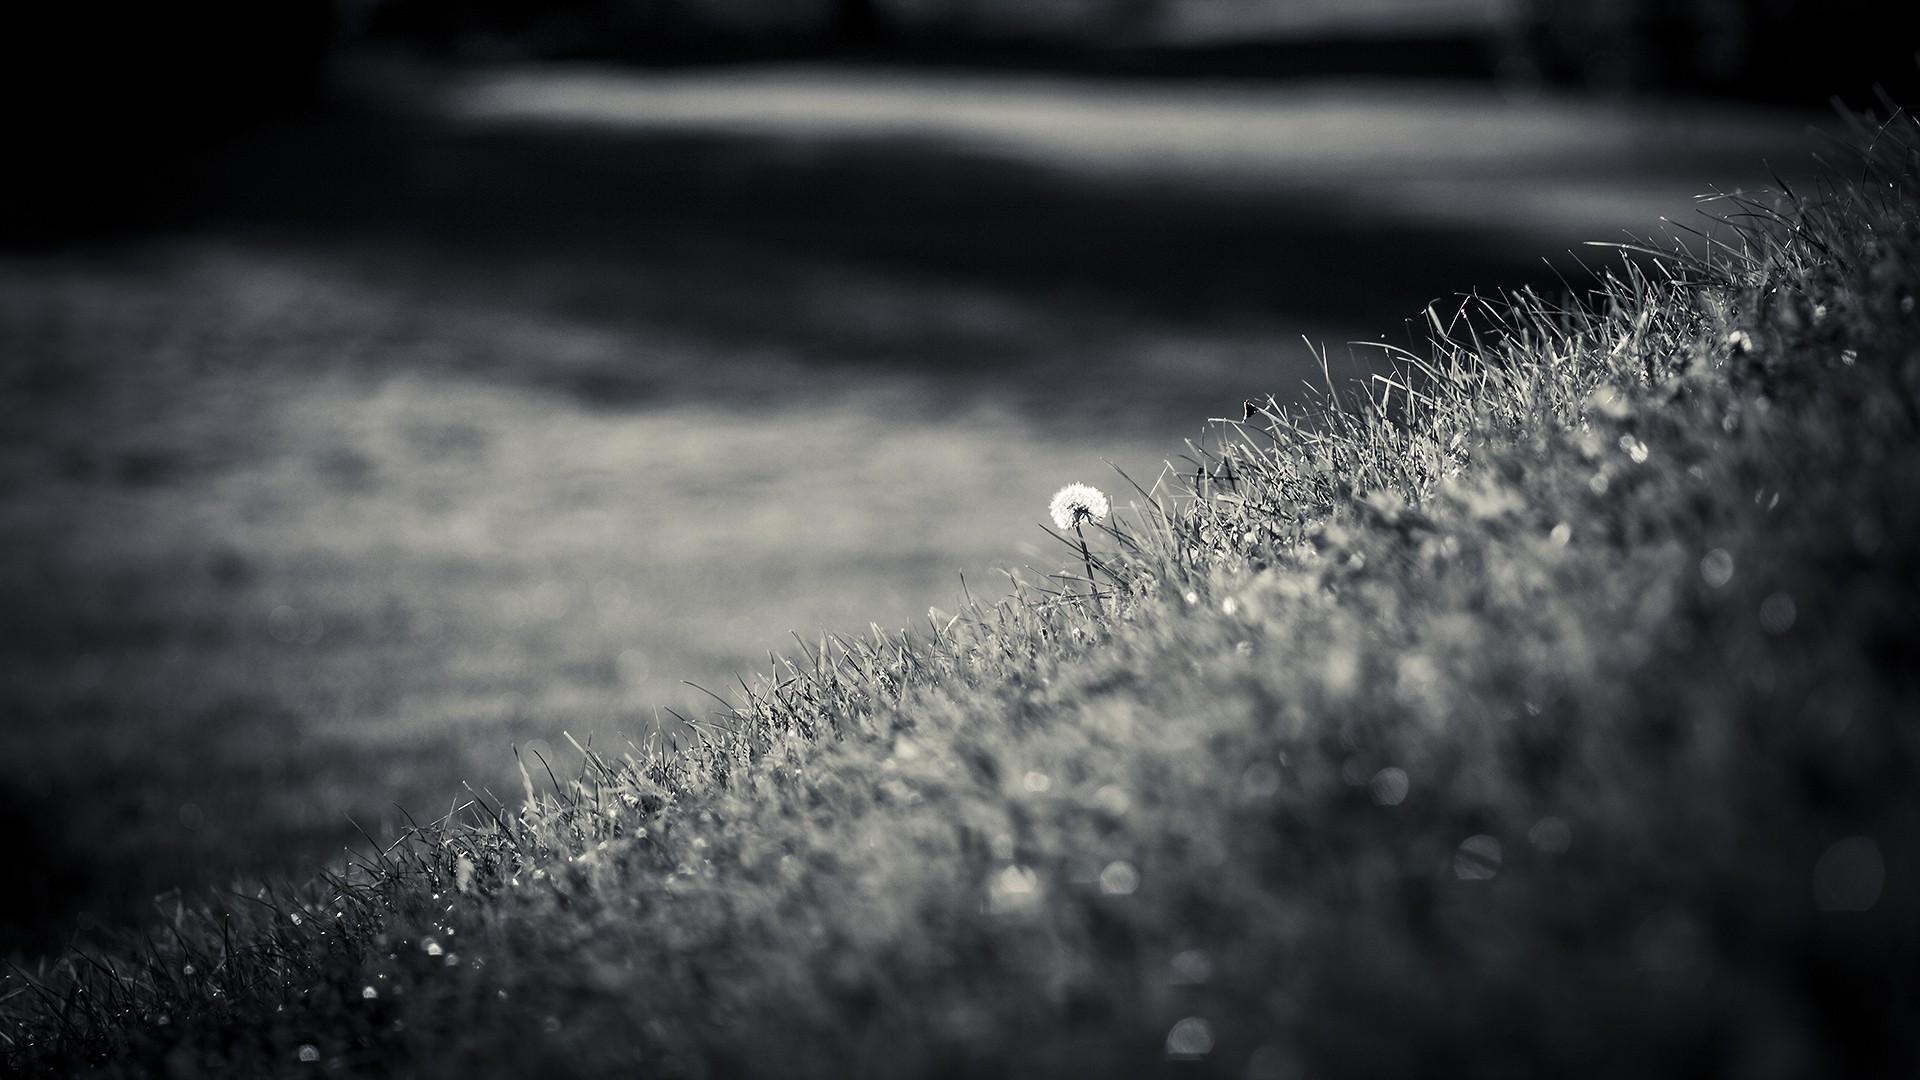
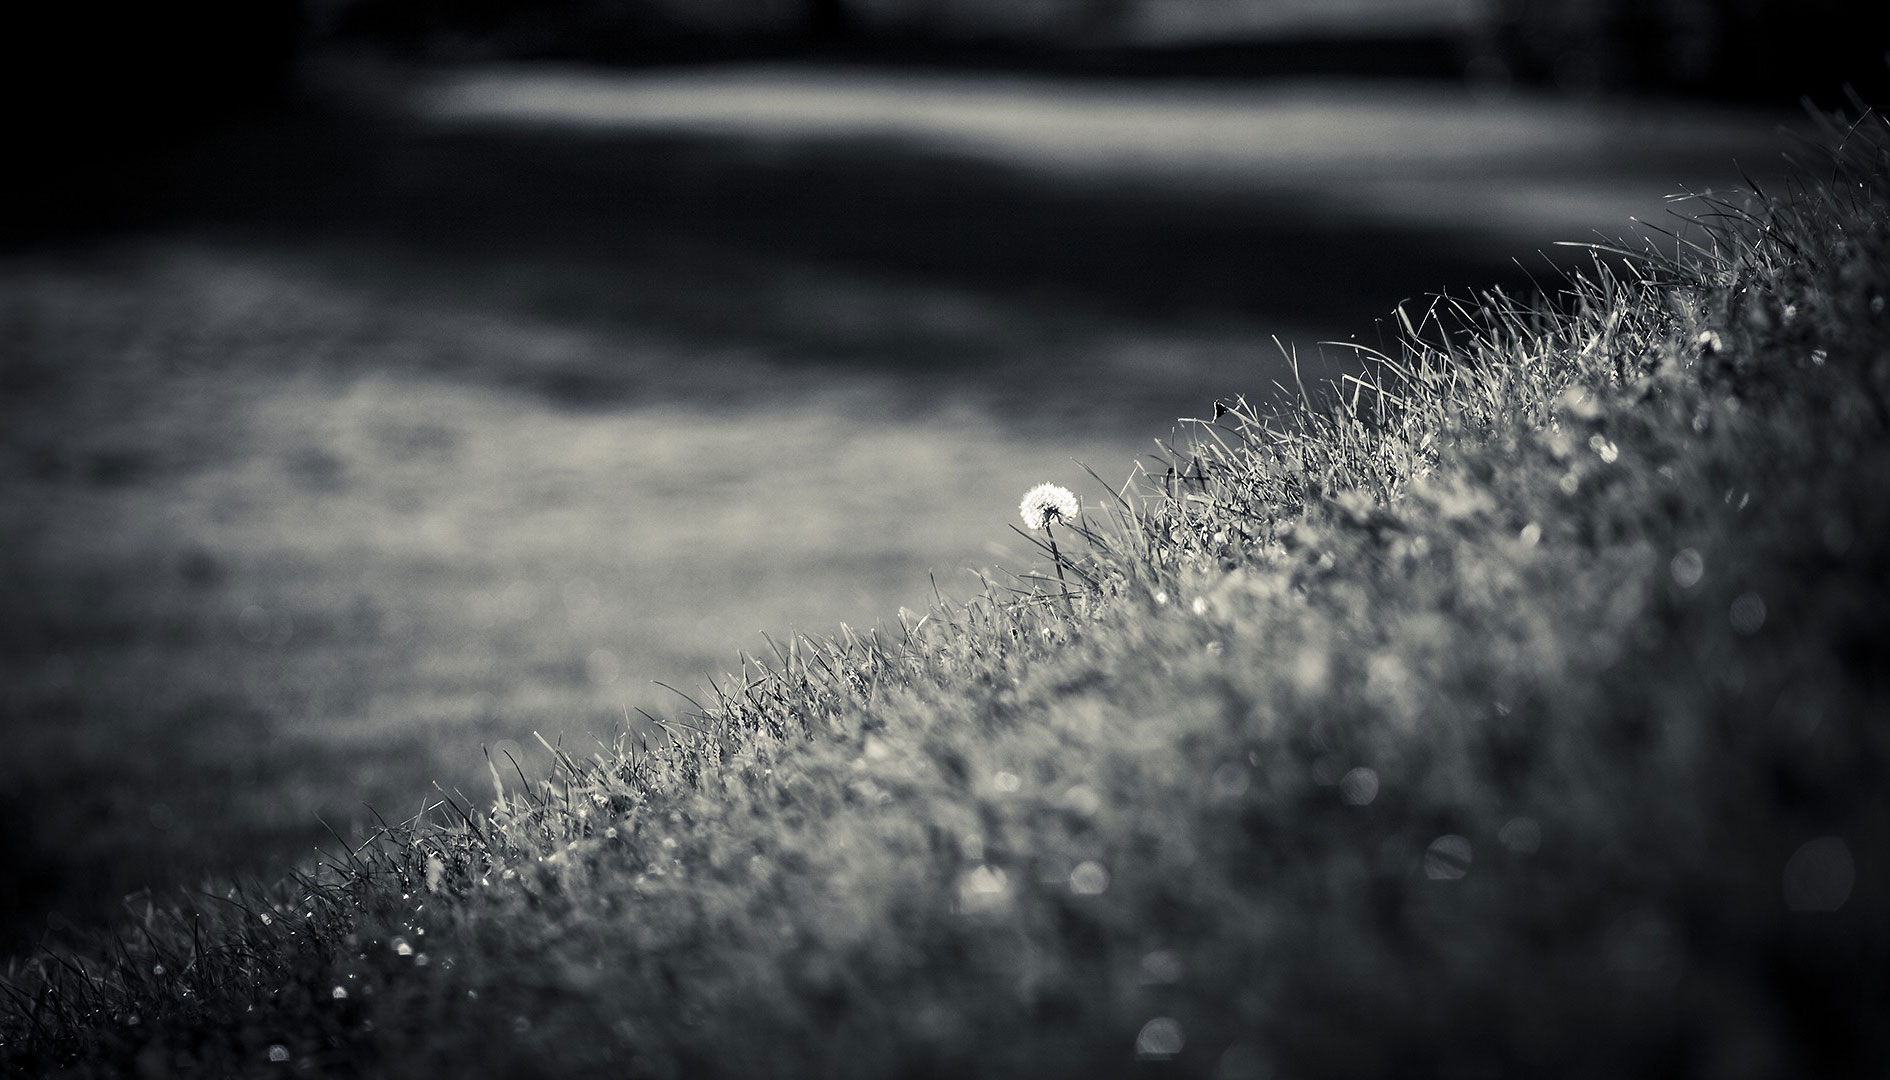
Fixed the background position

diff --git a/index.html b/index.html
@@ -13,7 +13,7 @@
     <body>
         <header>
             <div id="navigation">
-                <a href="#">Home</a>
+                <a href="#home">Home</a>
                 <a href="#hobbies">Hobby's</a>
                 <a href="#wauw">Wauw</a>
             </div> 

diff --git a/style/1092636.css b/style/1092636.css
@@ -81,7 +81,7 @@ h1 {
 }
 
 #home .container{
-	background:url(../images/bg.jpg) no-repeat center fixed;
+	background:url(../images/bg.jpg) no-repeat center top;
 	-webkit-background-size: cover;
 	-moz-background-size: cover;
 	-o-background-size: cover;
